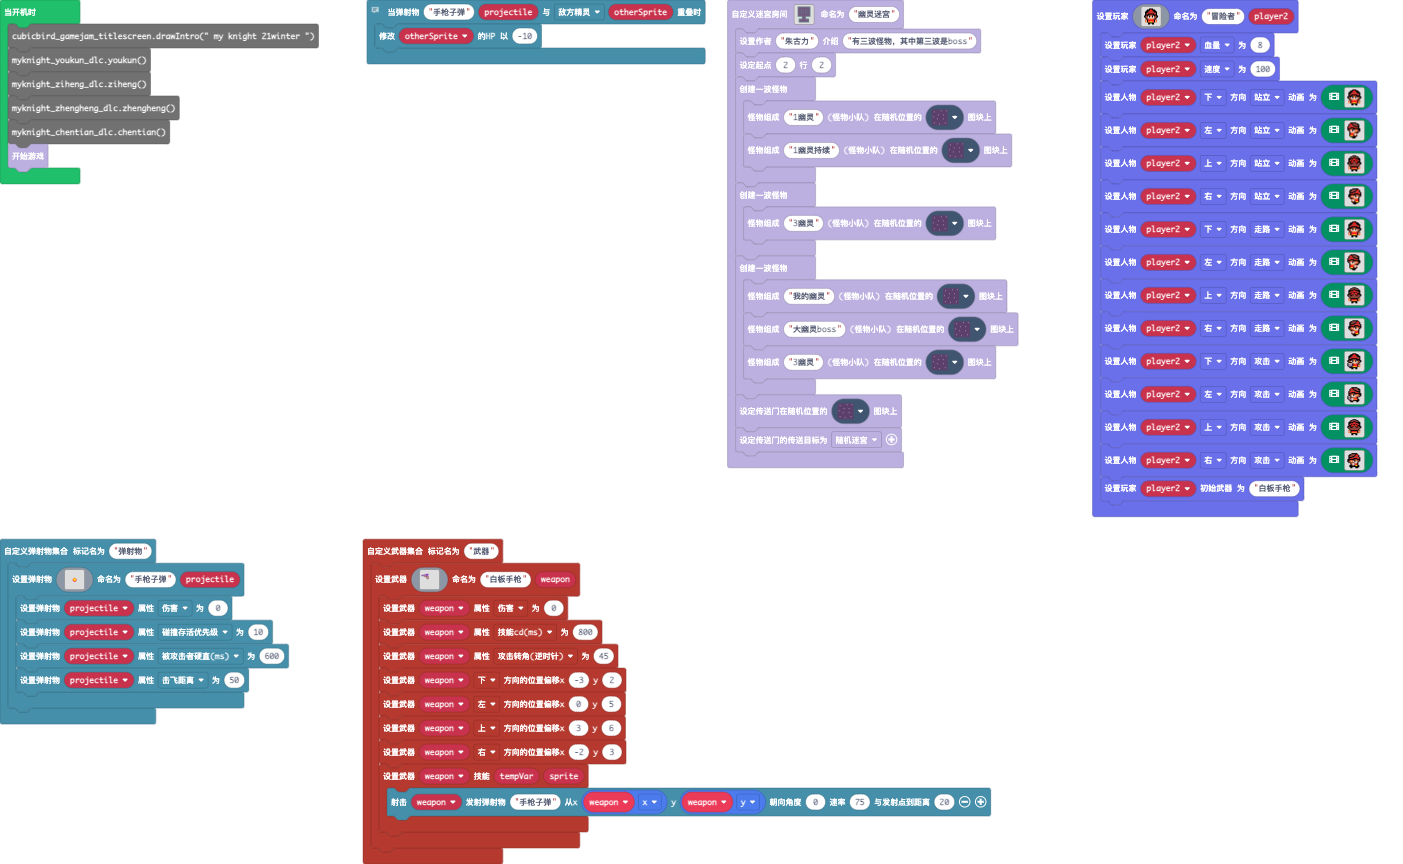
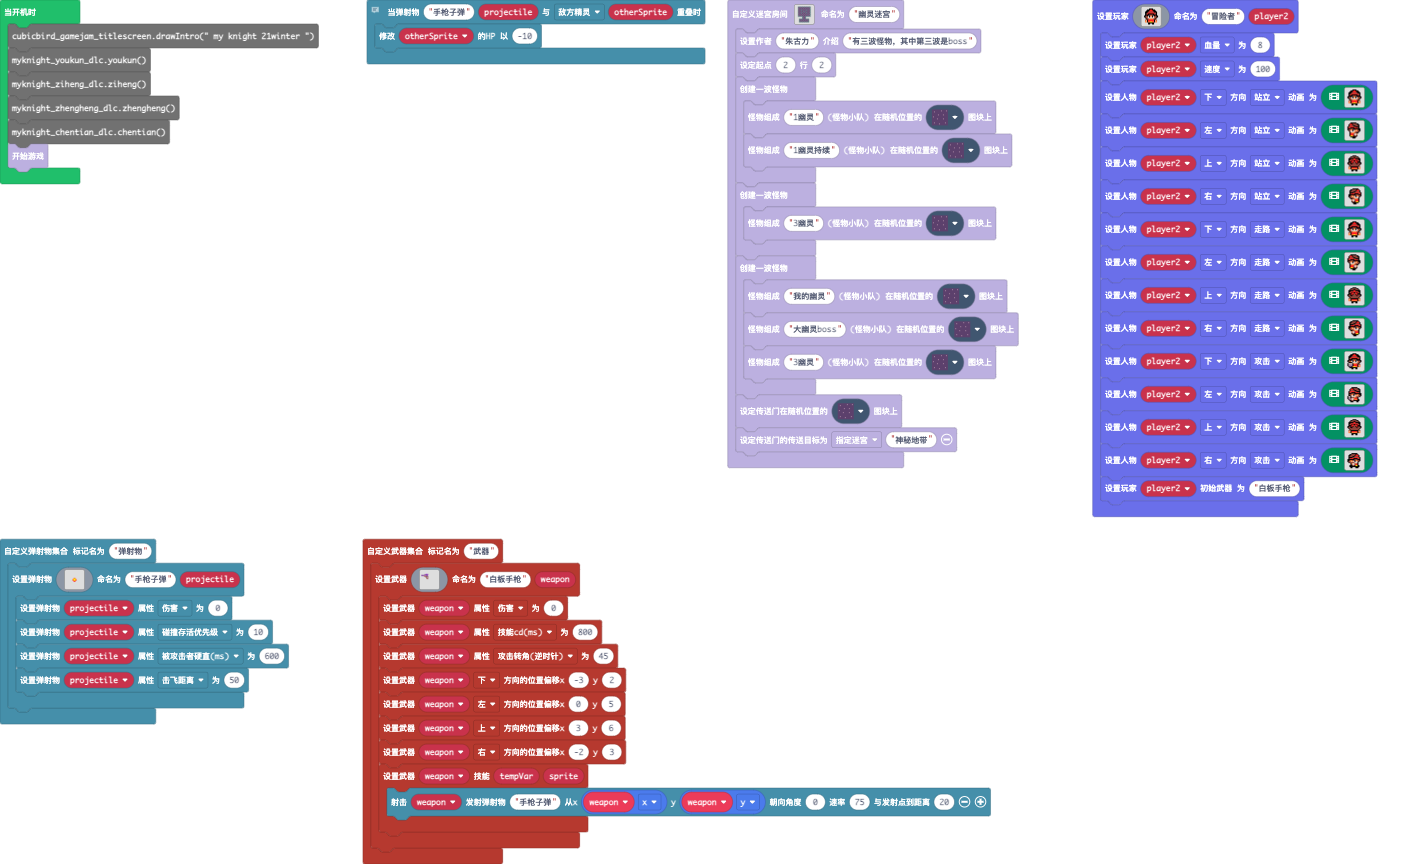
更新 main.blocks, playground_helpers.ts

Changed region(s): [[0.613, 0.4688, 0.7049, 0.5312]]

diff --git a/playground_helpers.ts b/playground_helpers.ts
@@ -1,7 +1,8 @@
 //%icon="\uf152" color="#BCB0E0"
 //%blockNamespace="迷宫"
-namespace playground_helpers {
 
+namespace playground_helpers {
+    let n: number = 0
     export function randomshoot(sprite: Sprite, n: number, amn: number, offset: number, delay: number, projectile: string, smn: number, k: number, amx: number, smx: number, d: number) {
         if (k > 0) {
             for (let index = 0; index <= n; index++) {
@@ -41,24 +42,41 @@ namespace playground_helpers {
 
     function gamestart(character: string) {
         Player.createPlayer(character, 2, 2)
-        leveLsellect()
-        //Maze.newRandomMaze()
-        //Maze.newNextMaze("障碍世界")
+      //  leveLsellect()
+        
+      
     }
-    function gamestart2(character: string, maze: Maze.maze) {
-        Player.createPlayer(character, 2, 2)
-        Maze.newRandomMaze()
+    function gamestart2(map: string) {
+        Maze.newNextMaze(map)
     }
+
+
+    blockMenu.onMenuOptionSelected(function (option, index) {
+        blockMenu.setControlsEnabled(false)
+        blockMenu.closeMenu()
+        if (n == 0) {
+            gamestart(option)
+            n = 1
+            startPlayground()
+        }
+        else {
+            gamestart2(option)
+            n = 0
+        }
+    })
+    
     //%block="开始游戏"
     export function startPlayground() {
-        blockMenu.onMenuOptionSelected(function (option, index) {
-            blockMenu.setControlsEnabled(false)
-            blockMenu.closeMenu()
-            gamestart(option)
-        })
+    
         blockMenu.setControlsEnabled(false)
         pause(10)
-        blockMenu.showMenu(playground_helpers.getAllCharacters(), MenuStyle.Grid, MenuLocation.FullScreen)
+        if (n == 0) {
+            blockMenu.showMenu(playground_helpers.getAllCharacters(), MenuStyle.Grid, MenuLocation.FullScreen)
+            
+        }
+        else {
+            blockMenu.showMenu(maps, MenuStyle.Grid, MenuLocation.FullScreen)
+        }
         blockMenu.setControlsEnabled(true)
 
     }
@@ -72,7 +90,7 @@ function leveLsellect() {
     } else {
         let sellectNum = game.askForNumber("1-" + maps.length)
         if (sellectNum >= 1 && sellectNum <= maps.length) {
-            Maze.newNextMaze(maps[sellectNum-1])
+            Maze.newNextMaze(maps[sellectNum - 1])
         }
         else {
             Maze.newNextMaze("障碍世界")
